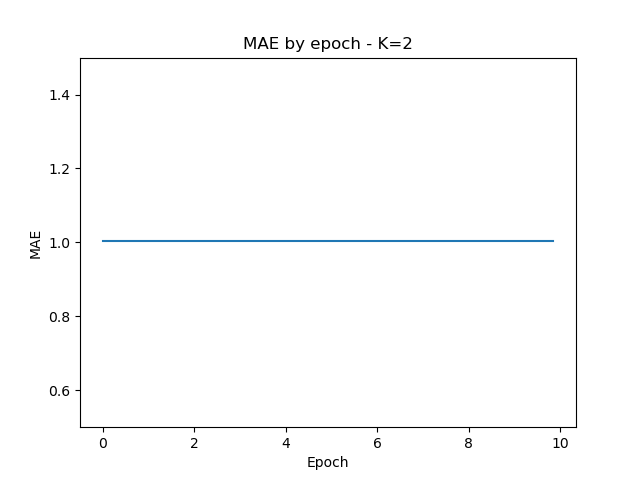
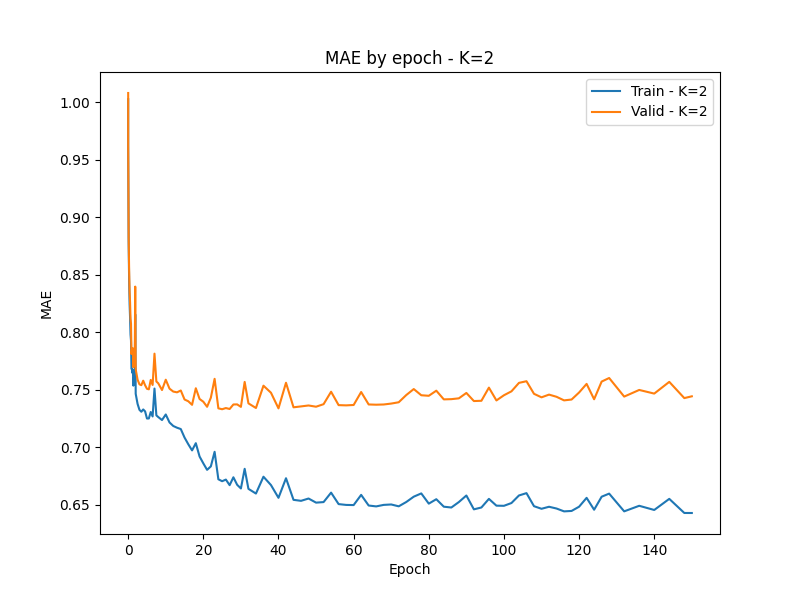
Uploading files that produce correct graphs

diff --git a/src_starter/CollabFilterOneVectorPerItem.py b/src_starter/CollabFilterOneVectorPerItem.py
@@ -58,12 +58,12 @@ class CollabFilterOneVectorPerItem(AbstractBaseCollabFilterSGD):
             mu=ag_np.ones(1),
             b_per_user=ag_np.ones(n_users), # User biases
             c_per_item=ag_np.ones(n_items), # Item biases
-            U=0.01 * random_state.randn(n_users, self.n_factors), # User hidden
-            V=0.01 * random_state.randn(n_items, self.n_factors), # Item hidden
+            U=ag_np.array(0.01 * random_state.randn(n_users, self.n_factors)), # User hidden
+            V=ag_np.array(0.01 * random_state.randn(n_items, self.n_factors)), # Item hidden
             )
 
 
-    def predict(self, user_id_N, item_id_N,
+    def predict_1(self, user_id_N, item_id_N,
                 mu=None, b_per_user=None, c_per_item=None, U=None, V=None):
         ''' Predict ratings at specific user_id, item_id pairs
 
@@ -85,7 +85,7 @@ class CollabFilterOneVectorPerItem(AbstractBaseCollabFilterSGD):
         N = user_id_N.size
         yhat_N = ag_np.ones(N)
 
-        # Predict step
+         # Predict step
         for i in range(len(yhat_N)):
             
             #convert array boxes to np arrays
@@ -121,6 +121,17 @@ class CollabFilterOneVectorPerItem(AbstractBaseCollabFilterSGD):
                 break
 
         return yhat_N
+    
+    def predict(self, user_id_N, item_id_N,
+                mu=None, b_per_user=None, c_per_item=None, U=None, V=None):
+        
+        inner_product = ag_np.sum(U[user_id_N] * V[item_id_N], axis = 1)
+        
+        res = b_per_user[user_id_N] + c_per_item[item_id_N] + mu + inner_product
+
+        return res
+
+
 
 
     def calc_loss_wrt_parameter_dict(self, param_dict, data_tuple):
@@ -143,14 +154,13 @@ class CollabFilterOneVectorPerItem(AbstractBaseCollabFilterSGD):
         y_pred = self.predict(user_ids, item_ids, **param_dict)
 
         # Compute the mean squared error
-        mse = ag_np.mean((y_true - y_pred) ** 2)
+        mse = ag_np.sum((y_true - y_pred) ** 2)
 
-        regularization_term = 0
-        for key in param_dict:
-            regularization_term += ag_np.sum(param_dict[key] ** 2)
+        regularization_term_u = ag_np.sum(param_dict['U'][user_ids] ** 2)
+        regularization_term_v = ag_np.sum(param_dict['V'][user_ids] ** 2)
 
         # Total loss: MSE + alpha * regularization
-        total_loss = mse + self.alpha * regularization_term
+        total_loss = mse + self.alpha * (regularization_term_u + regularization_term_v)
 
         return total_loss 
 
@@ -163,59 +173,73 @@ if __name__ == '__main__':
     # Create the model and initialize its parameters
     # to have right scale as the dataset (right num users and items)
 
-    print(test_tuple)
 
     #2 factors
     model_2 = CollabFilterOneVectorPerItem(
-        n_epochs=5, batch_size=32, step_size=0.2,
+        n_epochs=150, batch_size=32, step_size=0.2,
         n_factors=2, alpha=0.0)
     model_2.init_parameter_dict(n_users, n_items, train_tuple)
 
     # Fit the model with SGD
     model_2.fit(train_tuple, valid_tuple)
 
-    epoch_list = model_2.trace_epoch
-    mae_list_train = model_2.trace_mae_train
-    mae_list_valid = model_2.trace_mae_valid
-    plt.plot(epoch_list, mae_list_train, mae_list_valid)
-    plt.title('MAE by epoch - K=2')
-    plt.xlabel('Epoch')
-    plt.ylabel('MAE')
-    plt.savefig('k2_graph')
-
     #10 factors
     model_10 = CollabFilterOneVectorPerItem(
-        n_epochs=5, batch_size=32, step_size=0.2,
+        n_epochs=150, batch_size=32, step_size=0.2,
         n_factors=10, alpha=0.0)
     model_10.init_parameter_dict(n_users, n_items, train_tuple)
 
     # Fit the model with SGD
     model_10.fit(train_tuple, valid_tuple)
 
-    epoch_list = model_10.trace_epoch
-    mae_list_train = model_10.trace_mae_train
-    mae_list_valid = model_10.trace_mae_valid
-    plt.plot(epoch_list, mae_list_train, mae_list_valid)
-    plt.title('MAE by epoch - K=10')
-    plt.xlabel('Epoch')
-    plt.ylabel('MAE')
-    plt.savefig('k10_graph')
-
     #50 factors
     model_50 = CollabFilterOneVectorPerItem(
-        n_epochs=5, batch_size=32, step_size=0.2,
+        n_epochs=150, batch_size=32, step_size=0.2,
         n_factors=50, alpha=0.0)
     model_50.init_parameter_dict(n_users, n_items, train_tuple)
 
     # Fit the model with SGD
     model_50.fit(train_tuple, valid_tuple)
 
-    epoch_list = model_10.trace_epoch
-    mae_list_train = model_10.trace_mae_train
-    mae_list_valid = model_10.trace_mae_valid
-    plt.plot(epoch_list, mae_list_train, mae_list_valid)
+    #Plot for model with 2 factors
+    plt.figure(figsize=(8, 6))
+    epoch_list_2 = model_2.trace_epoch
+    mae_list_train_2 = model_2.trace_mae_train
+    mae_list_valid_2 = model_2.trace_mae_valid
+    plt.plot(epoch_list_2, mae_list_train_2, label='Train - K=2')
+    plt.plot(epoch_list_2, mae_list_valid_2, label='Valid - K=2')
+    plt.title('MAE by epoch - K=2')
+    plt.xlabel('Epoch')
+    plt.ylabel('MAE')
+    plt.legend()
+    plt.savefig('k2_graph.png')
+    plt.close()
+
+    # Plot for model with 10 factors
+    plt.figure(figsize=(8, 6))
+    epoch_list_10 = model_10.trace_epoch
+    mae_list_train_10 = model_10.trace_mae_train
+    mae_list_valid_10 = model_10.trace_mae_valid
+    plt.plot(epoch_list_10, mae_list_train_10, label='Train - K=10')
+    plt.plot(epoch_list_10, mae_list_valid_10, label='Valid - K=10')
+    plt.title('MAE by epoch - K=10')
+    plt.xlabel('Epoch')
+    plt.ylabel('MAE')
+    plt.legend()
+    plt.savefig('k10_graph.png')
+    plt.close()
+
+    # Plot for model with 50 factors
+    plt.figure(figsize=(8, 6))
+    epoch_list_50 = model_50.trace_epoch
+    mae_list_train_50 = model_50.trace_mae_train
+    mae_list_valid_50 = model_50.trace_mae_valid
+    plt.plot(epoch_list_50, mae_list_train_50, label='Train - K=50')
+    plt.plot(epoch_list_50, mae_list_valid_50, label='Valid - K=50')
     plt.title('MAE by epoch - K=50')
     plt.xlabel('Epoch')
     plt.ylabel('MAE')
-    plt.savefig('k50_graph')
+    plt.legend()
+    plt.savefig('k50_graph.png')
+    plt.close()
 

diff --git a/src_starter/AbstractBaseCollabFilterSGD.py b/src_starter/AbstractBaseCollabFilterSGD.py
@@ -205,6 +205,11 @@ class AbstractBaseCollabFilterSGD(object):
                     self.trace_auc_valid.append(valid_perf_dict['auc'])
                     self.trace_mae_train.append(train_perf_dict['mae'])
                     self.trace_mae_valid.append(valid_perf_dict['mae'])
+                    print('length of train MAE', len(self.trace_mae_train))
+
+                    print("Epoch:", epoch)
+                    print("Train MAE:", train_perf_dict['mae'])
+                    print("Valid MAE:", valid_perf_dict['mae'])
 
                     # Compute 'smoothed' loss by averaging over last B batches
                     # Might remove some of the stochasticity in using only the
